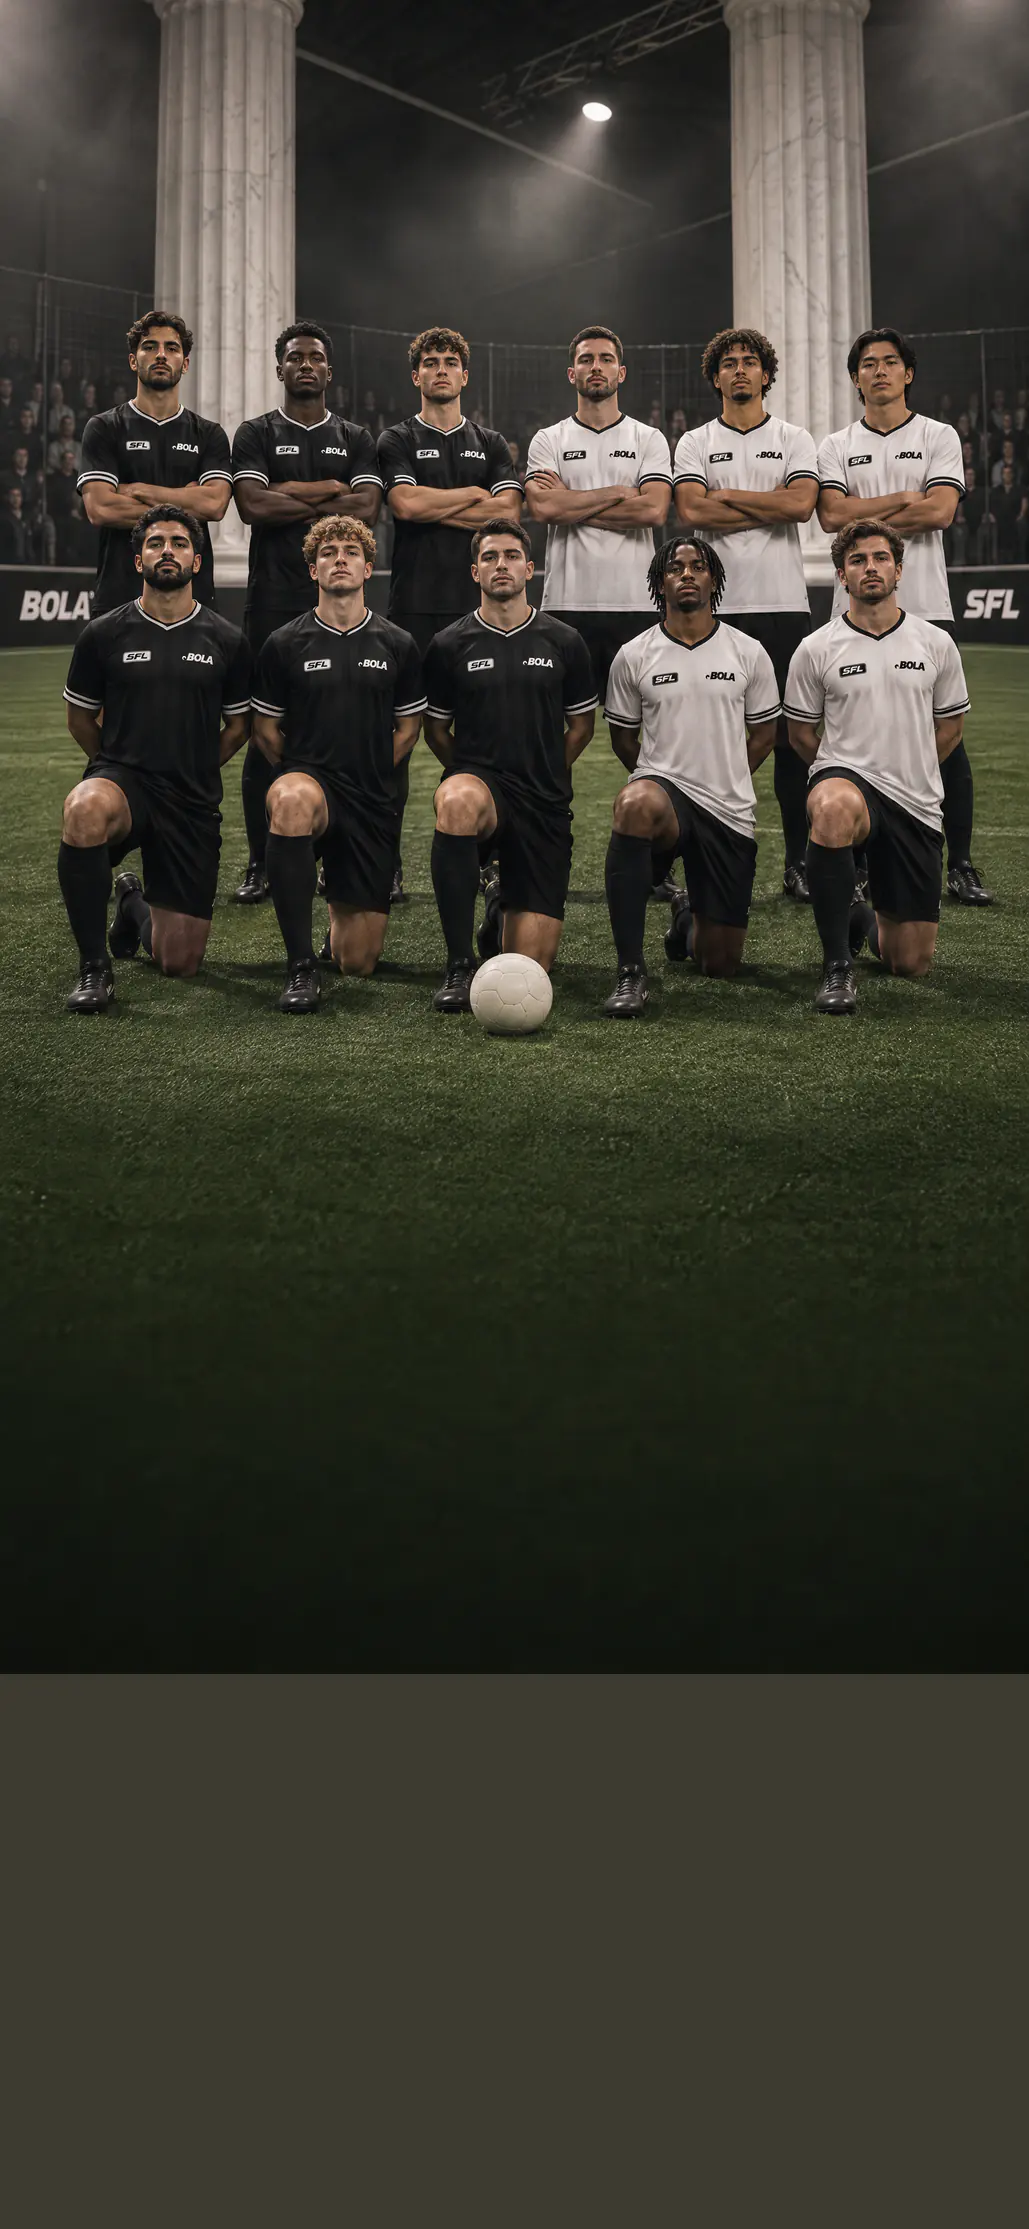
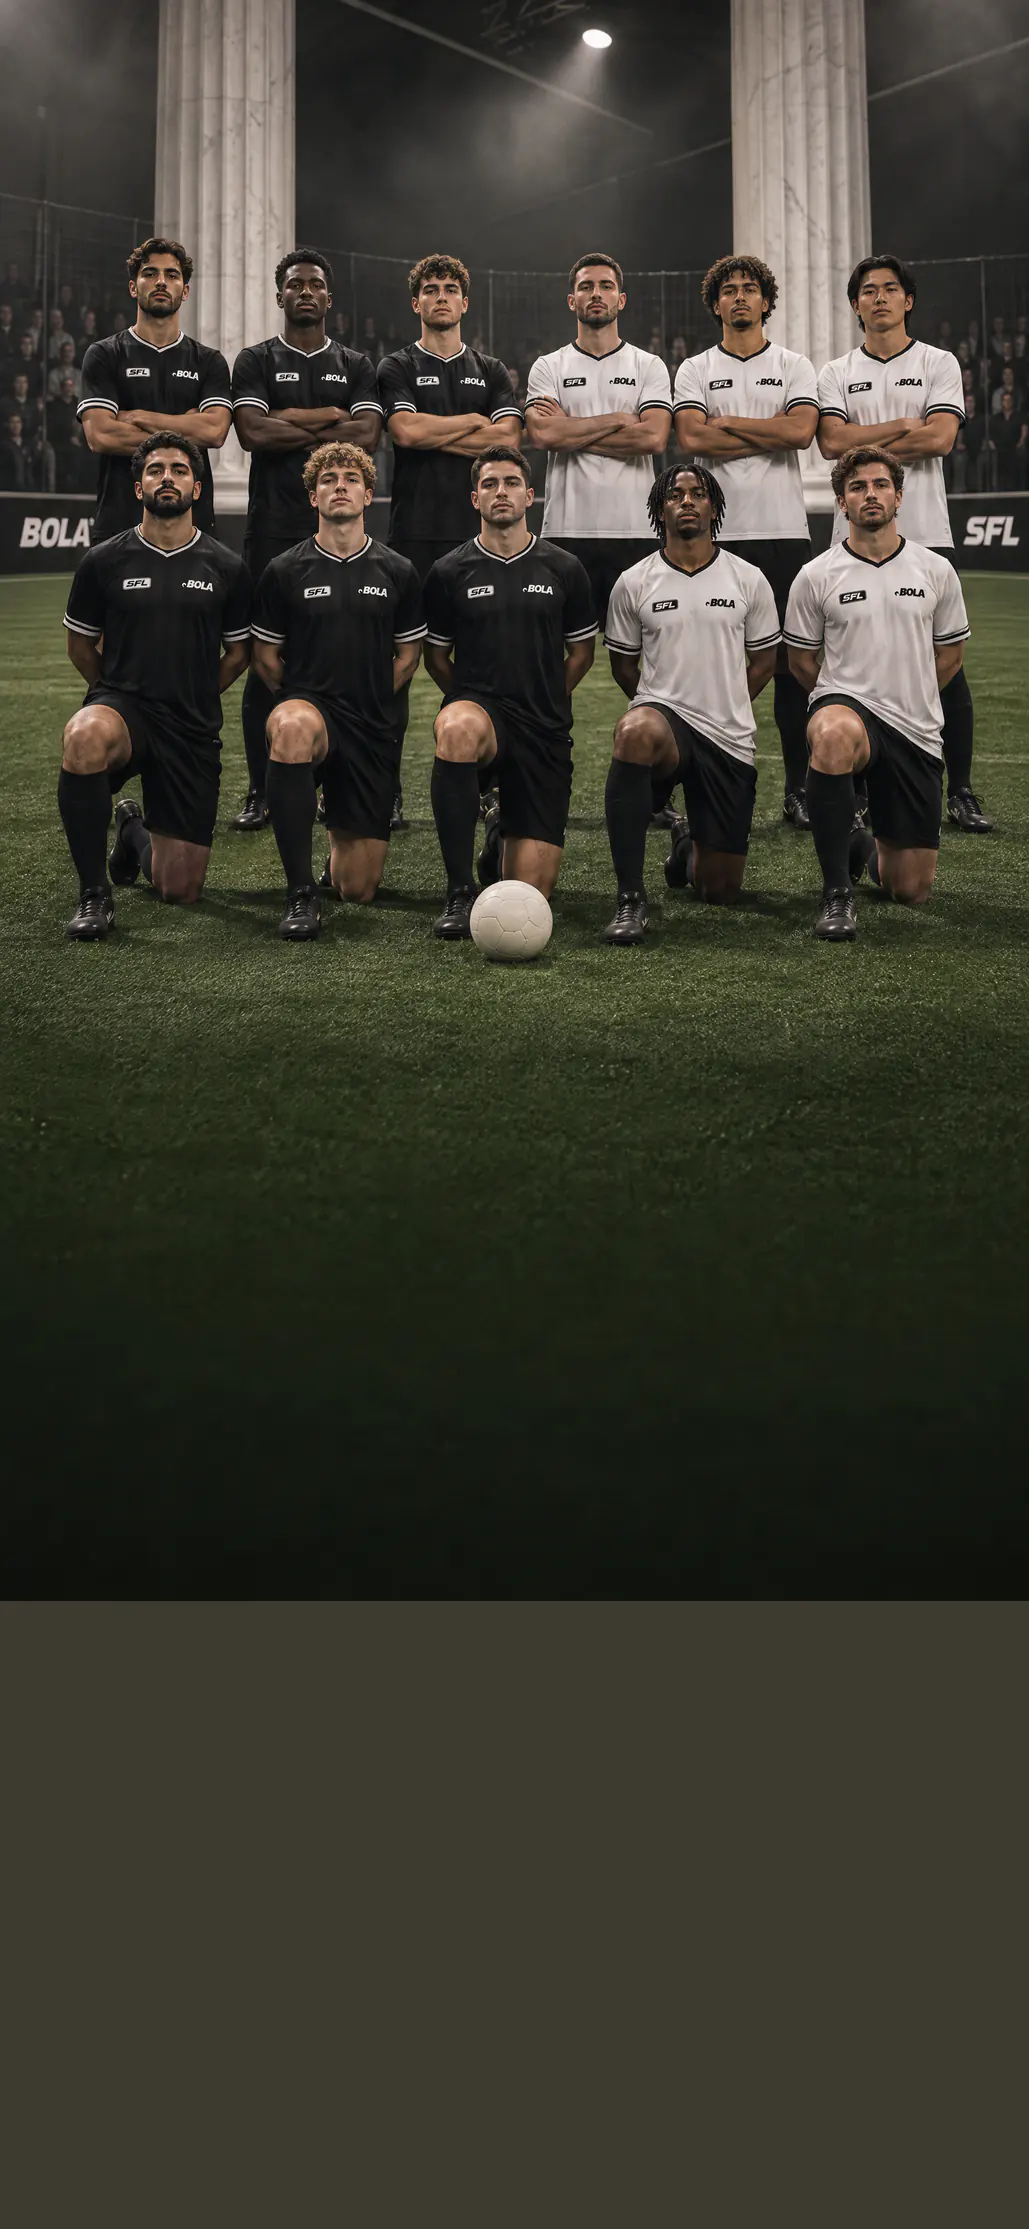
Page /sfl : couvertures d, d2, d3 plus propres (ballon hors de l'étiquette, têtes entières sur ordinateur, texte net sur téléphone bas)
Contrôle visuel du 15/11 (390×844 et 375×667, sombre et clair, 1440×900, mouvement réduit). Figurants générés (Higgsfield, projet Bola), aucun joueur de la SFL ; la page reste sur a « La cage ».
- d, téléphone : le ballon tombait sous « SUNDAY FIVE LEAGUE » ; le portrait part plus bas dans la photo (cadre.haut 0,08 → 0,12), le ballon passe au-dessus de l'étiquette. d2 de même (0,10 → 0,12), son ballon touchait l'étiquette.
- d, ordinateur : la bande coupait la tête des six joueurs debout (yBande 0,42 → 0,38) ; le voile plein (VOILE_EQUIPE) monte jusqu'à l'étiquette pour que leurs visages restent sous le voile.
- d, d2, d3 en sombre sur téléphone : un voile de plus compté depuis le bas (VOILE_FIGURANTS_SOMBRE), presque plein dès l'étiquette. En 375×667, le sigle et « Lille. » ne passent plus sur les visages et les genoux du second rang ; le panneau « BOLA SFL » de d3 ne se lit plus à côté de l'étiquette.
- Images régénérées par tools/page-sfl-couverture.ts (déterministe : a, b, c et d3 inchangés à l'octet), 26 à 119 ko.

Claude-Session: https://claude.ai/code/session_01T2vpMe8TqcUe6WqE24A85v

diff --git a/src/components/sfl/page-sfl/couverture.tsx b/src/components/sfl/page-sfl/couverture.tsx
@@ -83,8 +83,15 @@ const VOILE_MUR = {
   telephone: `linear-gradient(to bottom, ${fond(30)} 0%, ${fond(30)} calc(100% - 660px), ${fond(88)} calc(100% - 500px))`,
   ordinateur: `radial-gradient(ellipse 54% 74% at 50% 64%, ${fond(94)} 0%, ${fond(88)} 55%, ${fond(35)} 100%)`,
 };
-/** L'équipe (d) sur ordinateur : dix joueurs au centre, un voile plein derrière le contenu (aucun visage sous le texte). */
-const VOILE_EQUIPE = `radial-gradient(ellipse 50% 70% at 50% 60%, ${fond(92)} 0%, ${fond(84)} 55%, ${fond(0)} 100%)`;
+/** L'équipe (d) sur ordinateur : dix joueurs au centre, un voile plein derrière le contenu (aucun visage sous le texte) ; depuis que la bande garde leurs têtes (15/11), il monte jusqu'à l'étiquette. */
+const VOILE_EQUIPE = `radial-gradient(ellipse 50% 78% at 50% 52%, ${fond(92)} 0%, ${fond(84)} 55%, ${fond(0)} 100%)`;
+/**
+ * Les figurants (d, d2, d3) en sombre, sur téléphone : des visages et un ballon juste au-dessus du contenu.
+ * Contrôle visuel du 15/11 : en 375 × 667, le sigle et « Lille. » passaient sur les genoux et les visages du
+ * second rang, et le panneau « BOLA SFL » de d3 se lisait à côté de « SUNDAY FIVE LEAGUE ». Compté depuis le
+ * bas comme le voile (l'étiquette est à ~460 px du bas) : rien au-dessus, presque plein dès l'étiquette.
+ */
+const VOILE_FIGURANTS_SOMBRE = `linear-gradient(to bottom, ${fond(0)} 0%, ${fond(0)} calc(100% - 600px), ${fond(92)} calc(100% - 480px))`;
 
 export function Couverture() {
   const cle = useSyncExternalStore(rien, lireAdresse, () => COUVERTURE_SFL);
@@ -118,6 +125,7 @@ export function Couverture() {
       {cle === "b" && <div className="absolute inset-0 min-[960px]:hidden" style={{ background: VOILE_MUR.telephone }} />}
       {cle === "b" && <div className="absolute inset-0 hidden min-[960px]:block" style={{ background: VOILE_MUR.ordinateur }} />}
       {cle === "d" && <div className="absolute inset-0 hidden min-[960px]:block" style={{ background: VOILE_EQUIPE }} />}
+      {v.figurants && <div className="absolute inset-0 hidden dark:block min-[960px]:dark:hidden" style={{ background: VOILE_FIGURANTS_SOMBRE }} />}
       {/* Le voile : téléphone et tablette, puis ordinateur ; clair, puis sombre. */}
       <div className="absolute inset-0 min-[960px]:hidden dark:hidden" style={{ background: VOILE.clair }} />
       <div className="absolute inset-0 hidden dark:block min-[960px]:dark:hidden" style={{ background: VOILE.sombre }} />

diff --git a/src/lib/sfl/page-sfl-couverture.ts b/src/lib/sfl/page-sfl-couverture.ts
@@ -140,23 +140,23 @@ export const VARIANTES_COUVERTURE = {
         "src": "/sfl/couverture/d-720.webp",
         "largeur": 720,
         "hauteur": 1560,
[1 lines of base64/hex data omitted]
-        "octets": 66764
[1 lines of base64/hex data omitted]
+        "octets": 65040
       },
       {
         "src": "/sfl/couverture/d-1029.webp",
         "largeur": 1029,
         "hauteur": 2229,
[1 lines of base64/hex data omitted]
-        "octets": 120268
[1 lines of base64/hex data omitted]
+        "octets": 118574
       }
     ],
     "ordinateur": {
       "src": "/sfl/couverture/d-ordinateur.webp",
       "largeur": 1520,
       "hauteur": 855,
[1 lines of base64/hex data omitted]
-      "octets": 108546
[1 lines of base64/hex data omitted]
+      "octets": 100156
     }
   },
   "d2": {
@@ -172,15 +172,15 @@ export const VARIANTES_COUVERTURE = {
         "src": "/sfl/couverture/d2-720.webp",
         "largeur": 720,
         "hauteur": 1560,
[1 lines of base64/hex data omitted]
-        "octets": 42494
[1 lines of base64/hex data omitted]
+        "octets": 41880
       },
       {
         "src": "/sfl/couverture/d2-1029.webp",
         "largeur": 1029,
         "hauteur": 2229,
[1 lines of base64/hex data omitted]
-        "octets": 75260
[1 lines of base64/hex data omitted]
+        "octets": 74716
       }
     ],
     "ordinateur": {

diff --git a/tools/page-sfl-couverture.ts b/tools/page-sfl-couverture.ts
@@ -115,12 +115,14 @@ const VARIANTES: Variante[] = [
   { cle: "a", nom: "La cage", photo: "cage-2", cadre: { x: 0.6, haut: 0, yBande: 0.36 } },
   { cle: "b", nom: "Les cartes", cartes: true },
   { cle: "c", nom: "Les ombres", photo: "ombres-1", cadre: { x: 0.5, haut: 0.05, yBande: 0.3 } },
-  { cle: "d", nom: "L'équipe", figurants: true, cadre: { haut: 0.08 }, bande: { yBande: 0.42 } },
+  // Contrôle visuel du 15/11 : à haut 0,08, le ballon de d tombait sous « SUNDAY FIVE LEAGUE » (390 × 844) ; à
+  // yBande 0,42, la bande de l'ordinateur coupait la tête des six joueurs debout. d2 : son ballon touchait l'étiquette.
+  { cle: "d", nom: "L'équipe", figurants: true, cadre: { haut: 0.12 }, bande: { yBande: 0.38 } },
   {
     cle: "d2",
     nom: "Le face-à-face",
     figurants: true,
-    cadre: { haut: 0.1 },
+    cadre: { haut: 0.12 },
     bande: { lignes: [0.02, 0.72], morceaux: [{ de: 0, a: 0.47, gauche: 0 }, { de: 0.5, a: 1, gauche: 0.775 }] },
   },
   { cle: "d3", nom: "Le pied sur le ballon", figurants: true, cadre: { haut: 0.02, fondu: { debut: 0.53, fin: 0.63, force: 0.88 } }, bande: { lignes: [0, 0.8], morceaux: [{ de: 0.05, a: 1, gauche: 0.69 }] } },
